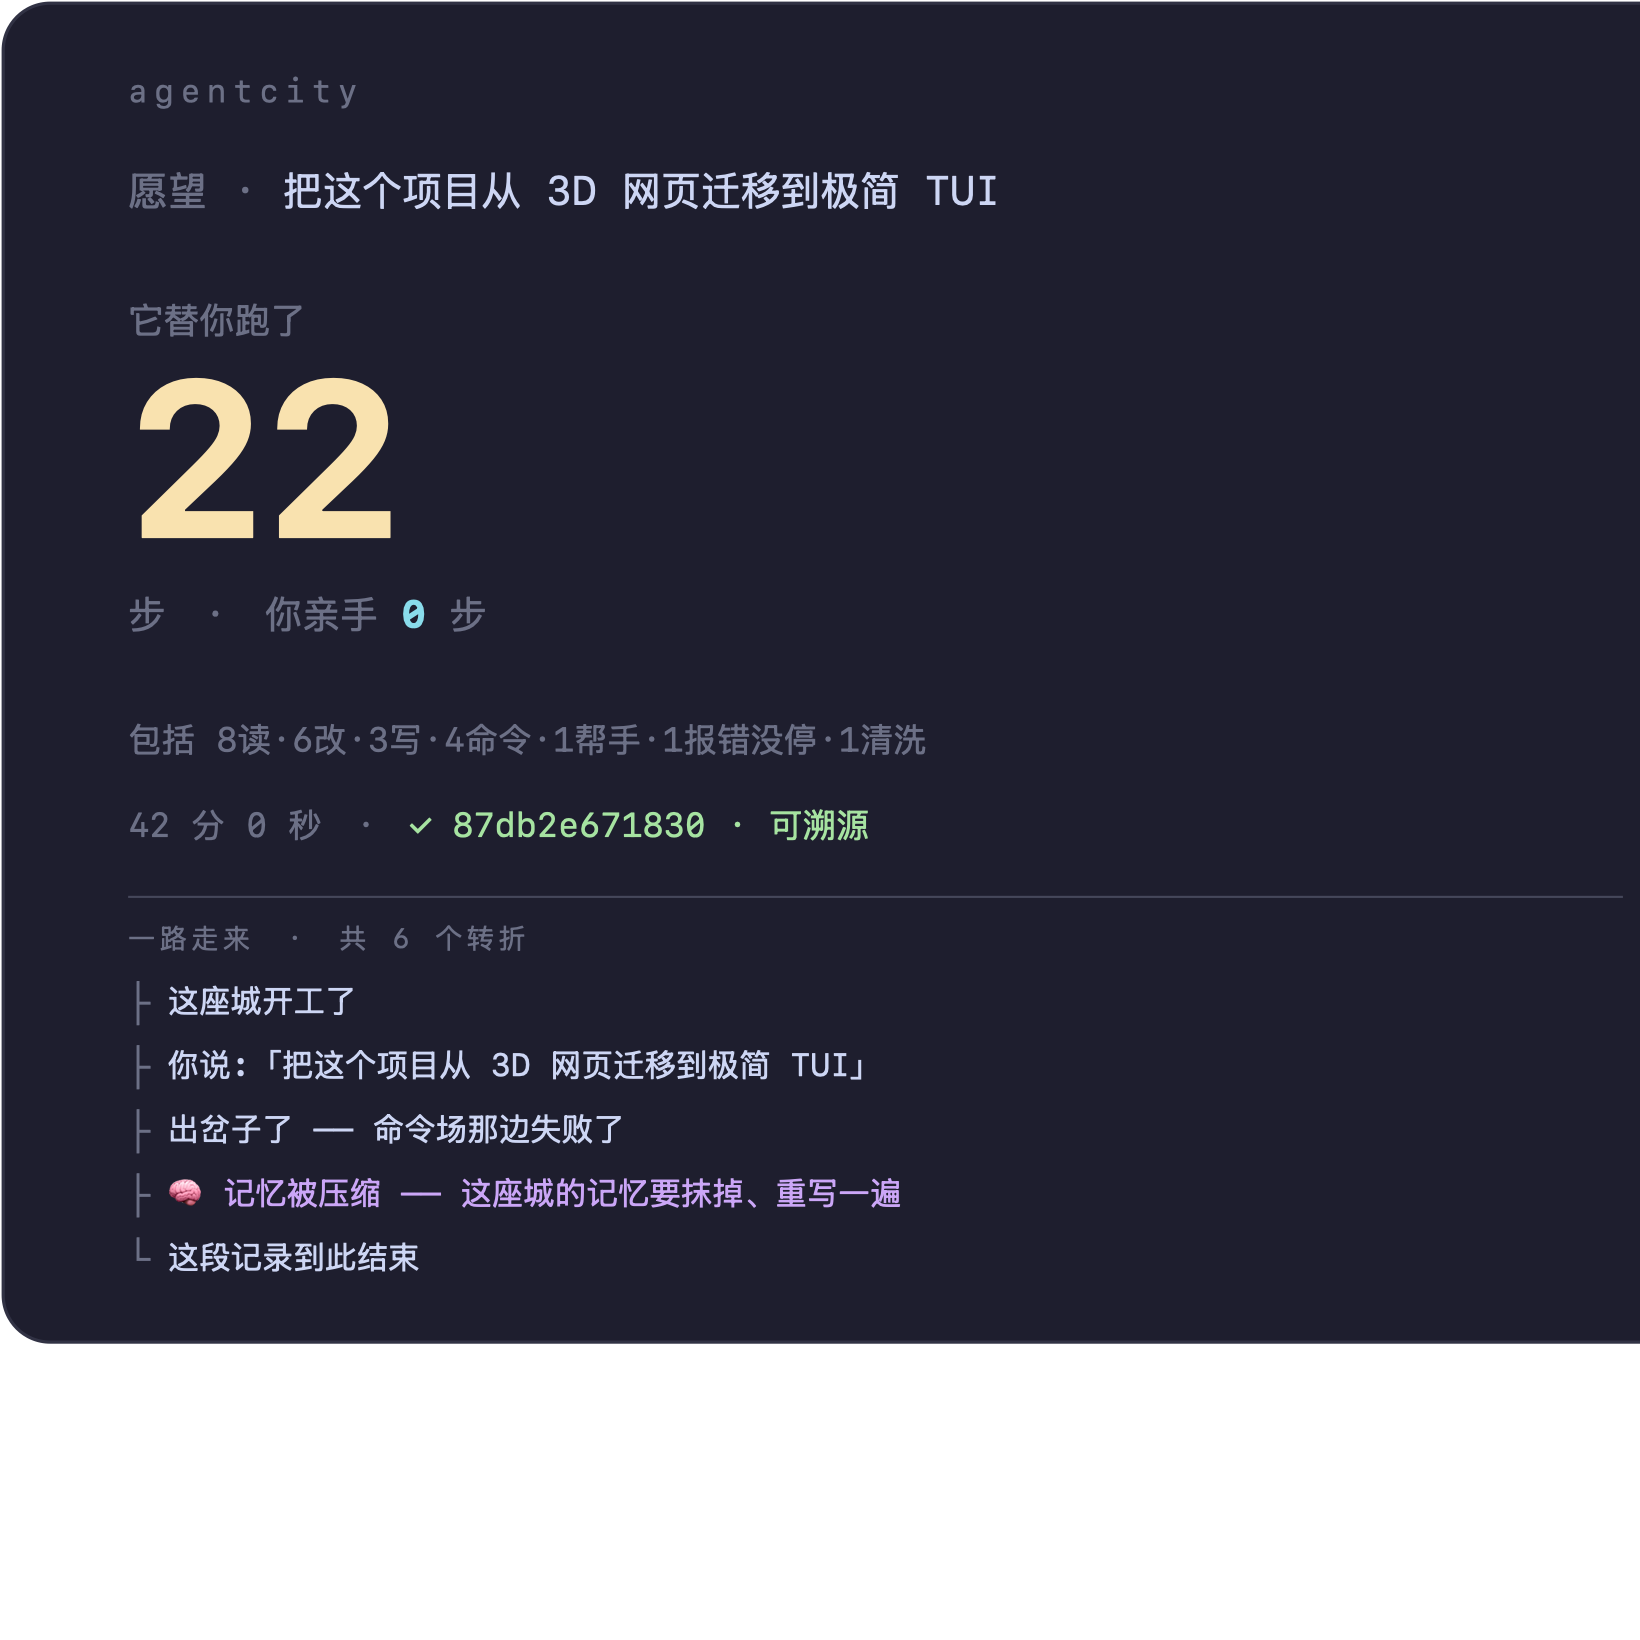
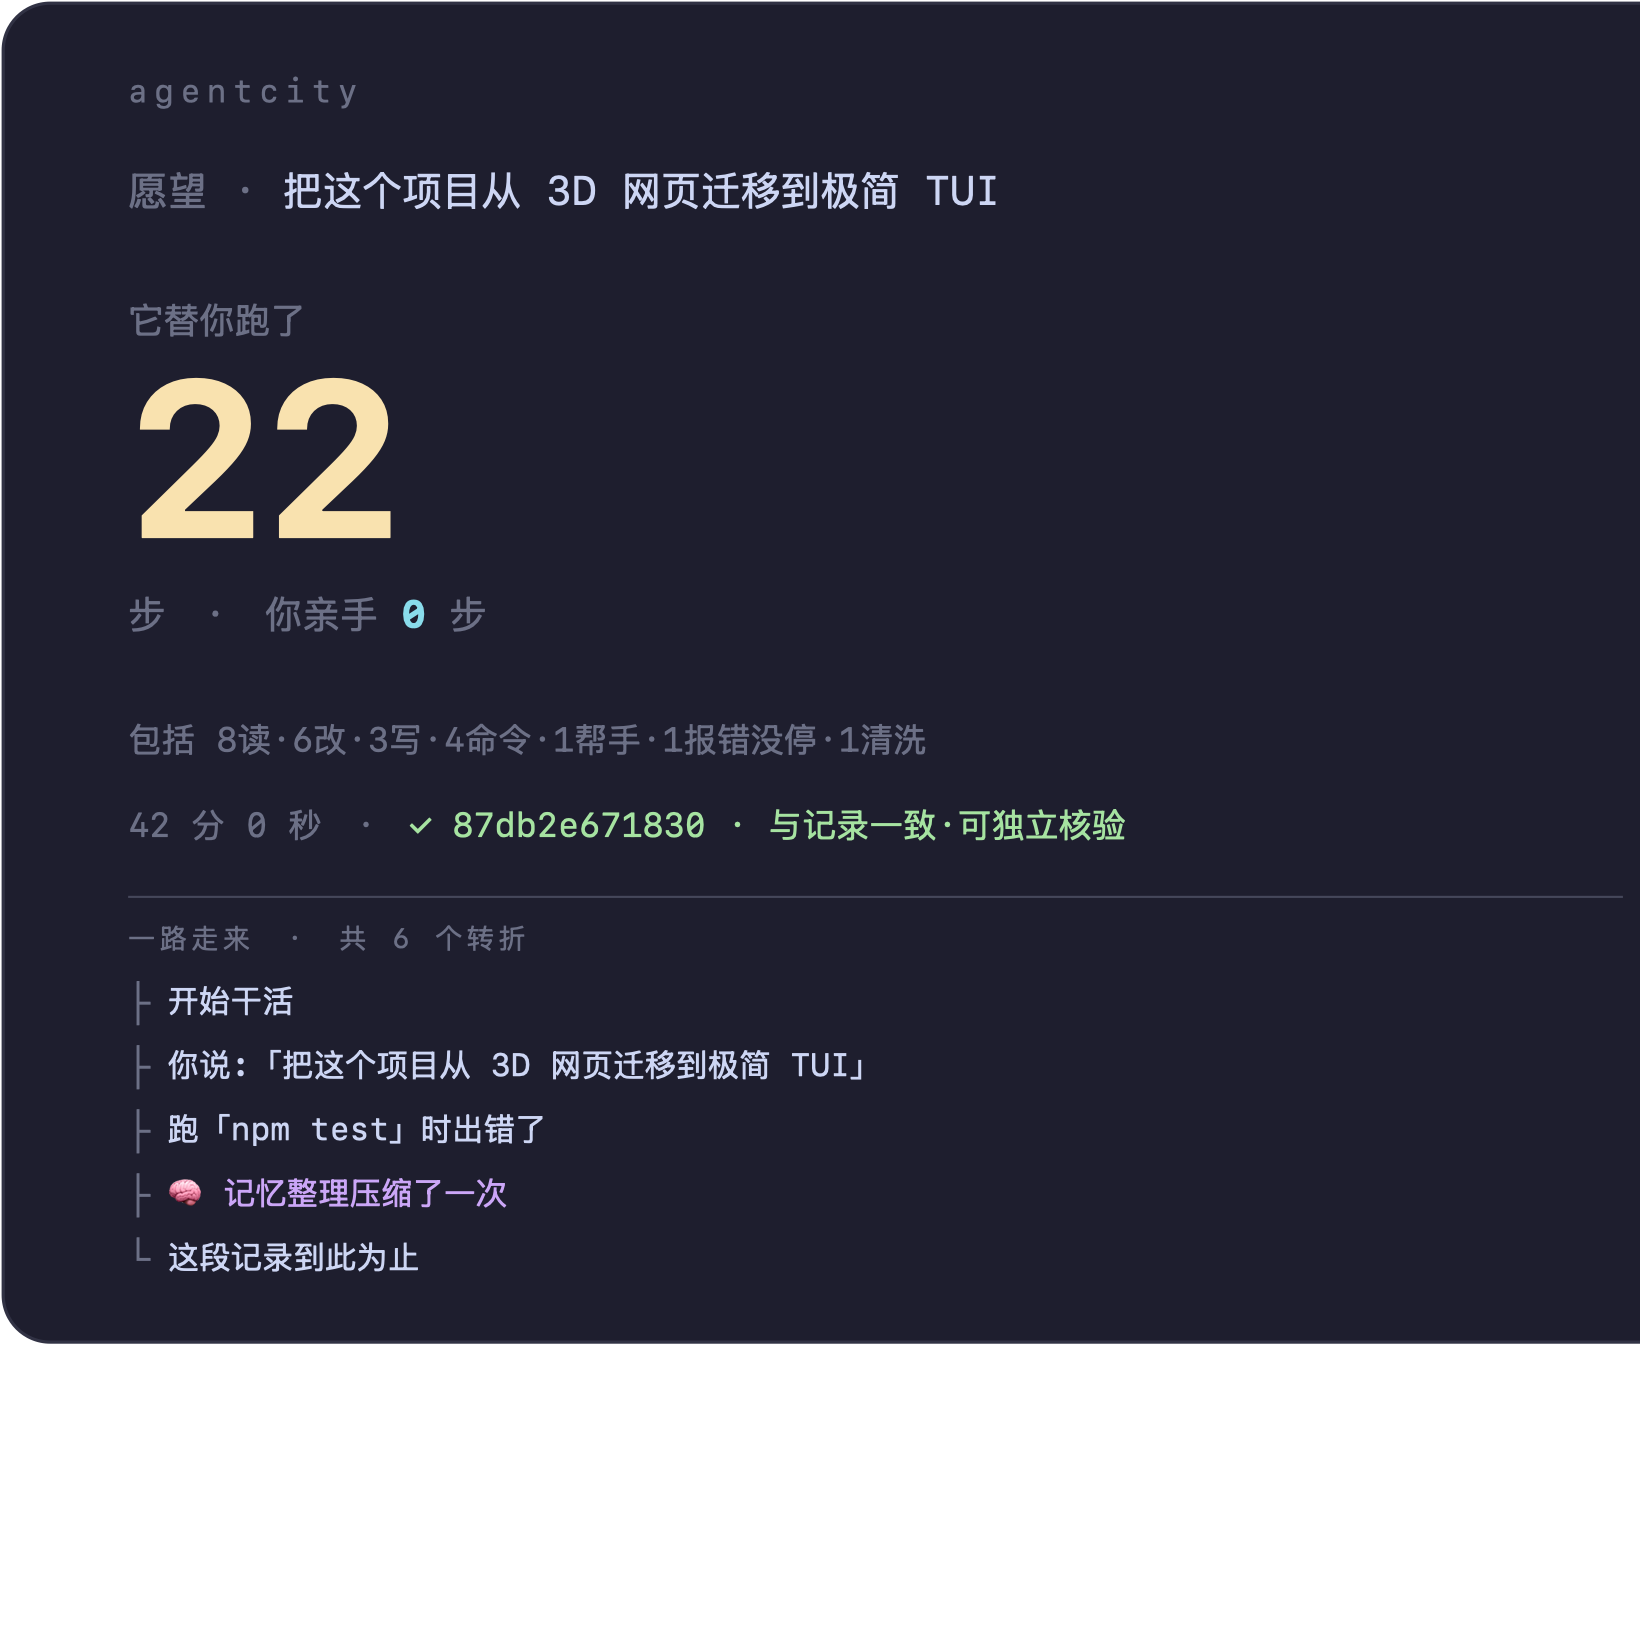
feat(card): plain-language, artifact-named journey glosses for the standalone card
A fresh-eyes outsider review found the card spoke a private language: on a
standalone screenshot (no city visible) the city-metaphor beats (工坊那边失败了,
派出一支小队) read as orphaned jargon, undercutting the 「认领」 goal. And the
scout's top narrative-deepening idea: name THIS run's real artifacts so the journey
is a fingerprint, not a template. Both land in one card-mode gloss pass (user chose
both, "严守诚实").

- NarrativeBeat gains `plain`: a plain-language gloss for the card that NAMES the
  concrete artifact the beat already touched — VERBATIM from the redacted event
  (targetRef = file basename/subagent; command from the label). Errors → 改「x.ts」
  时出错了 / 跑「npm test」时出错了; dispatch → 分了个子任务给「sub」. No new beat
  kinds, no manufactured success claims, ≤5 cap unchanged. The TUI keeps the city
  metaphor (`text`) where the city is on screen to decode it.
- Card seal pairs the opaque fp with a plain, honest promise: 与记录一致·可独立核验
  (phrased onto what verify proves — card↔record consistency — NOT the record's
  authenticity, which we don't vouch).

Honesty (loop-auditor APPROVE, mechanism: named verbatim from redacted data, plain
bound by the whole-card gate — forging a beat → verify ✗, city/plain tracks don't
leak). Two auditor FLAGs fixed: dropped per-beat 「但没停下」/「干完」 (unverified
resilience/completion claims — resilience is the aggregate stat's job); compaction
cause is now trigger-aware (满了 only for an AUTO compaction, never a manual /compact).
[…]

Changed region(s): [[0.0933, 0.653, 0.5598, 0.7774], [0.4665, 0.4976, 0.6841, 0.5287], [0.0933, 0.5909, 0.2177, 0.622]]

diff --git a/src/model/narrative.ts b/src/model/narrative.ts
@@ -15,7 +15,13 @@ import { eventToDistrict } from './mapping.ts';
 /** A single caption shown while the playhead sits at/after `seq`. */
 export interface NarrativeBeat {
   seq: number;
+  /** The city-metaphor gloss — for the TUI, where the city is on screen to anchor it. */
   text: string;
+  /** A plain-language gloss for a STANDALONE card (no city visible to decode the
+   *  metaphor), naming the concrete artifact this turning point actually touched
+   *  (a file basename / command / subagent) VERBATIM from the redacted event — never
+   *  inferred. Absent on hand-built test beats → callers fall back to `text`. */
+  plain?: string;
   /** 'drama' beats (a compaction) also cue the ceremonial cutscene. */
   tone: 'normal' | 'drama';
   /** Significance for the finale story-arc highlights pick (higher = kept first).
@@ -46,9 +52,32 @@ function clip(s: string, n: number): string {
   return t.length > n ? t.slice(0, n) + '…' : t;
 }
 
+/** The concrete artifact a beat touched, as a plain verb + redacted name, VERBATIM
+ *  from the parsed event (targetRef = basename/subagent; command lives in the label).
+ *  null when the event has no specific named target, so the gloss stays generic
+ *  instead of inventing a name. Names WHAT was touched — never why or an outcome. */
+function namedTarget(e: WorldEvent): string | null {
+  switch (e.kind) {
+    case 'FILE_EDIT':
+      return e.targetRef ? `改「${e.targetRef}」` : null;
+    case 'FILE_WRITE':
+      return e.targetRef ? `写「${e.targetRef}」` : null;
+    case 'FILE_READ':
+      return e.targetRef ? `读「${e.targetRef}」` : null;
+    case 'SHELL_RUN': {
+      const cmd = e.label.replace(/^\$\s*/, '').trim();
+      return cmd ? `跑「${clip(cmd, 18)}」` : null;
+    }
+    default:
+      return null;
+  }
+}
+
 /**
- * A plain-language caption for ONE real turning-point event, or null if this kind
- * is moment-to-moment noise the city already shows (so it earns no caption).
+ * A caption for ONE real turning-point event, or null if this kind is moment-to-
+ * moment noise the city already shows (so it earns no caption). `text` is the
+ * city-metaphor gloss (TUI); `plain` is the standalone-card gloss, naming the real
+ * artifact where the event has one (errors → the file/command that errored, etc.).
  */
 function beatFor(e: WorldEvent, firstSeq: number): NarrativeBeat | null {
   // TOOL_FAIL is the overlay twin of an originating tool event that already carries
@@ -56,34 +85,65 @@ function beatFor(e: WorldEvent, firstSeq: number): NarrativeBeat | null {
   if (e.kind === 'TOOL_FAIL') return null;
   // an error on any real tool event is a turning point regardless of kind
   if (e.isError) {
-    return { seq: e.seq, text: `出岔子了 —— ${DISTRICT_CN[eventToDistrict(e.kind)]}那边失败了`, tone: 'normal', weight: 4 };
+    const t = namedTarget(e);
+    // State only the observed fact (this step errored) + name what it touched. The
+    // resilience framing ("didn't stop") is the AGGREGATE's job (the 报错没停 stat),
+    // not a per-beat claim — "this error specifically was survived" isn't verified here.
+    return {
+      seq: e.seq,
+      text: `出岔子了 —— ${DISTRICT_CN[eventToDistrict(e.kind)]}那边失败了`,
+      plain: t ? `${t}时出错了` : '有一步出错了',
+      tone: 'normal',
+      weight: 4,
+    };
   }
   switch (e.kind) {
     case 'SESSION_RESUME':
-      return { seq: e.seq, text: '接着上一次，继续干', tone: 'normal', weight: 2 };
+      return { seq: e.seq, text: '接着上一次，继续干', plain: '接着上次，继续干', tone: 'normal', weight: 2 };
     case 'USER_PROMPT': {
       // the real (already-redacted) prompt text IS the story — show it verbatim
       // (bounded), not a generic line. Falls back only if the label is empty.
       const said = e.label ? clip(e.label, 30) : '';
-      return { seq: e.seq, text: said ? `你说:「${said}」` : '你交代了一件事', tone: 'normal', weight: 3 };
+      const line = said ? `你说:「${said}」` : '你交代了一件事';
+      return { seq: e.seq, text: line, plain: line, tone: 'normal', weight: 3 };
     }
     case 'SUBAGENT_SPAWN':
-      return { seq: e.seq, text: '派出一支小队去帮忙', tone: 'normal', weight: 3 };
+      return {
+        seq: e.seq,
+        text: '派出一支小队去帮忙',
+        plain: e.targetRef ? `分了个子任务给「${clip(e.targetRef, 18)}」` : '分了个子任务去做',
+        tone: 'normal',
+        weight: 3,
+      };
     case 'SUBAGENT_RESULT':
-      return { seq: e.seq, text: '小队回来交活了', tone: 'normal', weight: 2 };
+      // "回来了" (returned) is observed; avoid "做完/交活" which would claim the
+      // subagent SUCCEEDED — the result event doesn't verify the outcome's quality.
+      return { seq: e.seq, text: '小队回来交活了', plain: '子任务回来了', tone: 'normal', weight: 2 };
     case 'WORKFLOW_LAUNCH':
-      return { seq: e.seq, text: '开了一套多智能体编排', tone: 'normal', weight: 3 };
-    case 'COMPACTION':
-      return { seq: e.seq, text: '🧠 记忆被压缩 —— 这座城的记忆要抹掉、重写一遍', tone: 'drama', weight: 5 };
+      return { seq: e.seq, text: '开了一套多智能体编排', plain: '开了一套多步自动编排', tone: 'normal', weight: 3 };
+    case 'COMPACTION': {
+      // "满了" (memory full) is only the real cause for an AUTO compaction (context
+      // pressure); a MANUAL one is the user running /compact, so claiming "full"
+      // there would assert a why the transcript contradicts. Read the captured
+      // trigger and state the cause only when it's observed.
+      const trigger = e.detail?.trigger;
+      const plain =
+        trigger === 'manual'
+          ? '🧠 主动整理压缩了一次记忆'
+          : trigger === 'auto'
+            ? '🧠 记忆满了，整理压缩了一次'
+            : '🧠 记忆整理压缩了一次';
+      return { seq: e.seq, text: '🧠 记忆被压缩 —— 这座城的记忆要抹掉、重写一遍', plain, tone: 'drama', weight: 5 };
+    }
     case 'MODE_CHANGE':
       // the permission mode at the very FIRST event is a starting state, not a
       // switch — captioning it would mislead (and would mask the opening beat).
       if (e.seq === firstSeq) return null;
-      return { seq: e.seq, text: '权限边检 —— 切换了模式', tone: 'normal', weight: 1 };
+      return { seq: e.seq, text: '权限边检 —— 切换了模式', plain: '切换了权限模式', tone: 'normal', weight: 1 };
     case 'BRANCH_SWITCH':
-      return { seq: e.seq, text: '切到了另一条 git 分支', tone: 'normal', weight: 1 };
+      return { seq: e.seq, text: '切到了另一条 git 分支', plain: '切到了另一条 git 分支', tone: 'normal', weight: 1 };
     case 'MODEL_SWITCH':
-      return { seq: e.seq, text: '换了个「大脑」(切换模型)', tone: 'normal', weight: 1 };
+      return { seq: e.seq, text: '换了个「大脑」(切换模型)', plain: '换了个模型', tone: 'normal', weight: 1 };
     default:
       return null;
   }
@@ -103,15 +163,23 @@ export function narrativeBeats(session: ParsedSession): NarrativeBeat[] {
   const raw: NarrativeBeat[] = [];
   // opening beat — use the real session title when we have one
   const title = session.meta.title ? clip(session.meta.title, 22) : '';
-  raw.push({ seq: firstSeq, text: title ? `开工 ·「${title}」` : '这座城开工了', tone: 'normal', weight: 5 });
+  raw.push({
+    seq: firstSeq,
+    text: title ? `开工 ·「${title}」` : '这座城开工了',
+    plain: title ? `开始干活 ·「${title}」` : '开始干活',
+    tone: 'normal',
+    weight: 5,
+  });
 
   for (const e of events) {
     const b = beatFor(e, firstSeq);
     if (b) raw.push(b);
   }
 
-  // closing beat — the transcript itself ends here (always true, never fabricated)
-  raw.push({ seq: lastSeq, text: '这段记录到此结束', tone: 'normal', weight: 5 });
+  // closing beat — the transcript itself ends here (always true, never fabricated).
+  // plain avoids "干完/完成" (the record ending doesn't prove the work succeeded) —
+  // it states only that the record reaches its end here.
+  raw.push({ seq: lastSeq, text: '这段记录到此结束', plain: '这段记录到此为止', tone: 'normal', weight: 5 });
 
   // sort by seq (events are ordered, but the synthesized open/close need placing)
   raw.sort((a, b) => a.seq - b.seq);

diff --git a/src/model/narrative.test.ts b/src/model/narrative.test.ts
@@ -162,6 +162,50 @@ describe('narrativeBeats — the plain-language story skeleton', () => {
   });
 });
 
+describe('beat.plain — the standalone-card gloss (plain language + named artifacts, verbatim)', () => {
+  it('names the real file a FILE_EDIT error touched, VERBATIM (city metaphor stays in text)', () => {
+    const beats = narrativeBeats(sess([ev(1, 'SESSION_START'), ev(5, 'FILE_EDIT', { isError: true, targetRef: 'cardSvg.ts' }), ev(9, 'AGENT_TURN_END')]));
+    const err = beats.find((b) => b.weight === 4)!;
+    expect(err.plain).toBe('改「cardSvg.ts」时出错了'); // named, verbatim from targetRef; no per-beat outcome claim
+    expect(err.text).toContain('工坊'); // TUI keeps the city metaphor
+  });
+  it('names the real command a SHELL_RUN error ran, stripped from the label', () => {
+    const beats = narrativeBeats(sess([ev(1, 'SESSION_START'), ev(5, 'SHELL_RUN', { isError: true, label: '$ npm test' }), ev(9, 'AGENT_TURN_END')]));
+    expect(beats.find((b) => b.weight === 4)!.plain).toBe('跑「npm test」时出错了');
+  });
+  it('falls back to a GENERIC plain gloss when the event has no named target (never invents one)', () => {
+    const beats = narrativeBeats(sess([ev(1, 'SESSION_START'), ev(5, 'FILE_EDIT', { isError: true }), ev(9, 'AGENT_TURN_END')]));
+    expect(beats.find((b) => b.weight === 4)!.plain).toBe('有一步出错了');
+  });
+  it('states only observed facts — no per-beat resilience ("没停下") or completion ("干完") claim', () => {
+    const beats = narrativeBeats(sess([ev(1, 'SESSION_START'), ev(5, 'FILE_EDIT', { isError: true, targetRef: 'x.ts' }), ev(9, 'AGENT_TURN_END')]));
+    for (const b of beats) {
+      expect(b.plain).not.toContain('没停下'); // resilience is the aggregate stat's job
+      expect(b.plain).not.toContain('干完'); // the record ending ≠ the work succeeded
+    }
+  });
+  it('names the subagent a dispatch went to, from targetRef', () => {
+    const beats = narrativeBeats(sess([ev(1, 'SESSION_START'), ev(5, 'SUBAGENT_SPAWN', { targetRef: 'loop-auditor' }), ev(9, 'AGENT_TURN_END')]));
+    expect(beats.find((b) => b.text.includes('小队'))!.plain).toBe('分了个子任务给「loop-auditor」');
+  });
+  it('states a compaction cause only when observed (auto→满了, manual→主动, unknown→neutral)', () => {
+    const plainOf = (extra: Partial<WorldEvent>) =>
+      narrativeBeats(sess([ev(1, 'SESSION_START'), ev(5, 'COMPACTION', extra), ev(9, 'AGENT_TURN_END')])).find((b) => b.tone === 'drama')!.plain;
+    expect(plainOf({ detail: { trigger: 'auto' } })).toContain('满了'); // context pressure — the real cause
+    expect(plainOf({ detail: { trigger: 'manual' } })).toBe('🧠 主动整理压缩了一次记忆');
+    expect(plainOf({ detail: { trigger: 'manual' } })).not.toContain('满了'); // a manual /compact wasn't "full"
+    expect(plainOf({})).not.toContain('满了'); // unknown trigger → assert no unverified cause
+  });
+  it('every card gloss is plain — free of the city metaphor (which only the visible TUI city decodes)', () => {
+    const beats = narrativeBeats(sess([ev(1, 'SESSION_START'), ev(5, 'COMPACTION'), ev(7, 'SUBAGENT_SPAWN'), ev(9, 'AGENT_TURN_END')]));
+    for (const b of beats) {
+      expect(b.plain).toBeTruthy();
+      expect(b.plain).not.toContain('这座城');
+      expect(b.plain).not.toContain('小队');
+    }
+  });
+});
+
 describe('storyArc — the finale journey (honest highlights, never invented)', () => {
   // open(w5) + prompt(w3) + branch(w1) + spawn(w3) + error(w4) + compaction(w5) + mode(w1) + close(w5)
   const rich = () =>

diff --git a/src/export/cardSvg.ts b/src/export/cardSvg.ts
@@ -68,9 +68,13 @@ export function renderCardSvg(model: PanelModel, provenance?: Provenance): strin
     : '';
 
   // The seal: when verifiable, the short fingerprint is its own tagged tspan so
-  // verifyCard reads back EXACTLY the fp (not the surrounding slogan).
+  // verifyCard reads back EXACTLY the fp (not the surrounding slogan). The fp alone
+  // is an opaque hex string to a layperson, so it's paired with a plain-language
+  // promise — phrased onto what verify actually proves (the card is consistent with
+  // its record, independently checkable), NOT the record's own authenticity (which
+  // we explicitly do not vouch), so the line stays honest even read off a screenshot.
   const sealInner = provenance
-    ? `✓ <tspan id="ac-seal">${esc(short)}</tspan> · 可溯源`
+    ? `✓ <tspan id="ac-seal">${esc(short)}</tspan> · 与记录一致·可独立核验`
     : '✓ 数据来自真实记录';
 
   // Embedded receipt: a minimal comment (no `--`, no `<>`, no plaintext metrics)
@@ -107,7 +111,9 @@ export function renderCardSvg(model: PanelModel, provenance?: Provenance): strin
       .map((b, i) => {
         const connector = i === journey.length - 1 ? '└' : '├';
         const col = b.drama ? C.drama : C.text;
-        return `<text x="${X}" y="${ROW0 + i * ROW_H}" font-size="15" fill="${C.dim}">${connector} <tspan fill="${col}">${esc(clip(b.text, 40))}</tspan></text>`;
+        // a standalone card has no city to decode the metaphor → use the plain,
+        // artifact-named gloss (falls back to the city text only if plain is absent).
+        return `<text x="${X}" y="${ROW0 + i * ROW_H}" font-size="15" fill="${C.dim}">${connector} <tspan fill="${col}">${esc(clip(b.plain ?? b.text, 40))}</tspan></text>`;
       })
       .join('\n  ');
     // "共 N 个转折" only when the journey is a capped highlights pick — never silent.

diff --git a/src/export/cardSvg.test.ts b/src/export/cardSvg.test.ts
@@ -34,7 +34,8 @@ describe('renderCardSvg (作品 poster export)', () => {
     expect(svg).toContain(`>${model.laborSteps}</text>`);
     expect(svg).toContain(SYNTH_WISH);
     expect(svg).toContain('你亲手');
-    expect(svg).toContain('可溯源');
+    // the fp hex is paired with a plain-language trust promise (legible to a layperson)
+    expect(svg).toContain('可独立核验');
     // the seal is the real short fingerprint, not a static slogan
     expect(svg).toContain(provenance.short);
     expect(svg).not.toContain('全程真实可溯源');
@@ -66,10 +67,12 @@ describe('renderCardSvg (作品 poster export)', () => {
     expect(/&(?!amp;|lt;|gt;|#)/.test(svg)).toBe(false);
   });
 
-  it('renders the "一路走来" journey from real beats, with an honest truncation label', () => {
+  it('renders the "一路走来" journey from real beats (PLAIN gloss on the card), with an honest truncation label', () => {
     expect(svg).toContain('一路走来');
-    // the journey beats are the model's, in order, never invented
-    for (const b of model.finale!.journey) expect(svg).toContain(b.text.slice(0, 8));
+    // the card uses the PLAIN, artifact-named gloss (the city metaphor needs the
+    // visible city, so it stays in the TUI) — and the beats are the model's, never invented
+    for (const b of model.finale!.journey) expect(svg).toContain((b.plain ?? b.text).slice(0, 8));
+    expect(svg).not.toContain('这座城'); // no orphaned city metaphor on a standalone card
     // a capped highlights pick must disclose the real total, never silently drop
     if (model.finale!.journeyTotal > model.finale!.journey.length) {
       expect(svg).toContain(`共 ${model.finale!.journeyTotal} 个转折`);

diff --git a/src/tui/viewModel.ts b/src/tui/viewModel.ts
@@ -121,9 +121,12 @@ export interface FinaleStat {
   value: number;
 }
 
-/** One line of the finale "一路走来" journey — a real turning-point beat. */
+/** One line of the finale "一路走来" journey — a real turning-point beat. `text`
+ *  is the city-metaphor gloss (TUI, where the city anchors it); `plain` is the
+ *  standalone-card gloss (plain-language, names the real artifact touched). */
 export interface JourneyBeat {
   text: string;
+  plain?: string;
   drama: boolean;
 }
 
@@ -150,7 +153,7 @@ function buildFinale(session: ParsedSession, laborSteps: number): FinaleModel {
     laborSteps,
     stats: t.stats.map((s) => ({ key: s.key, value: s.value })),
     punchline: `人只说了要做什么 —— 剩下 ${laborSteps} 步,它自己干完了。`,
-    journey: arc.beats.map((b) => ({ text: b.text, drama: b.tone === 'drama' })),
+    journey: arc.beats.map((b) => ({ text: b.text, plain: b.plain, drama: b.tone === 'drama' })),
     journeyTotal: arc.total,
   };
 }